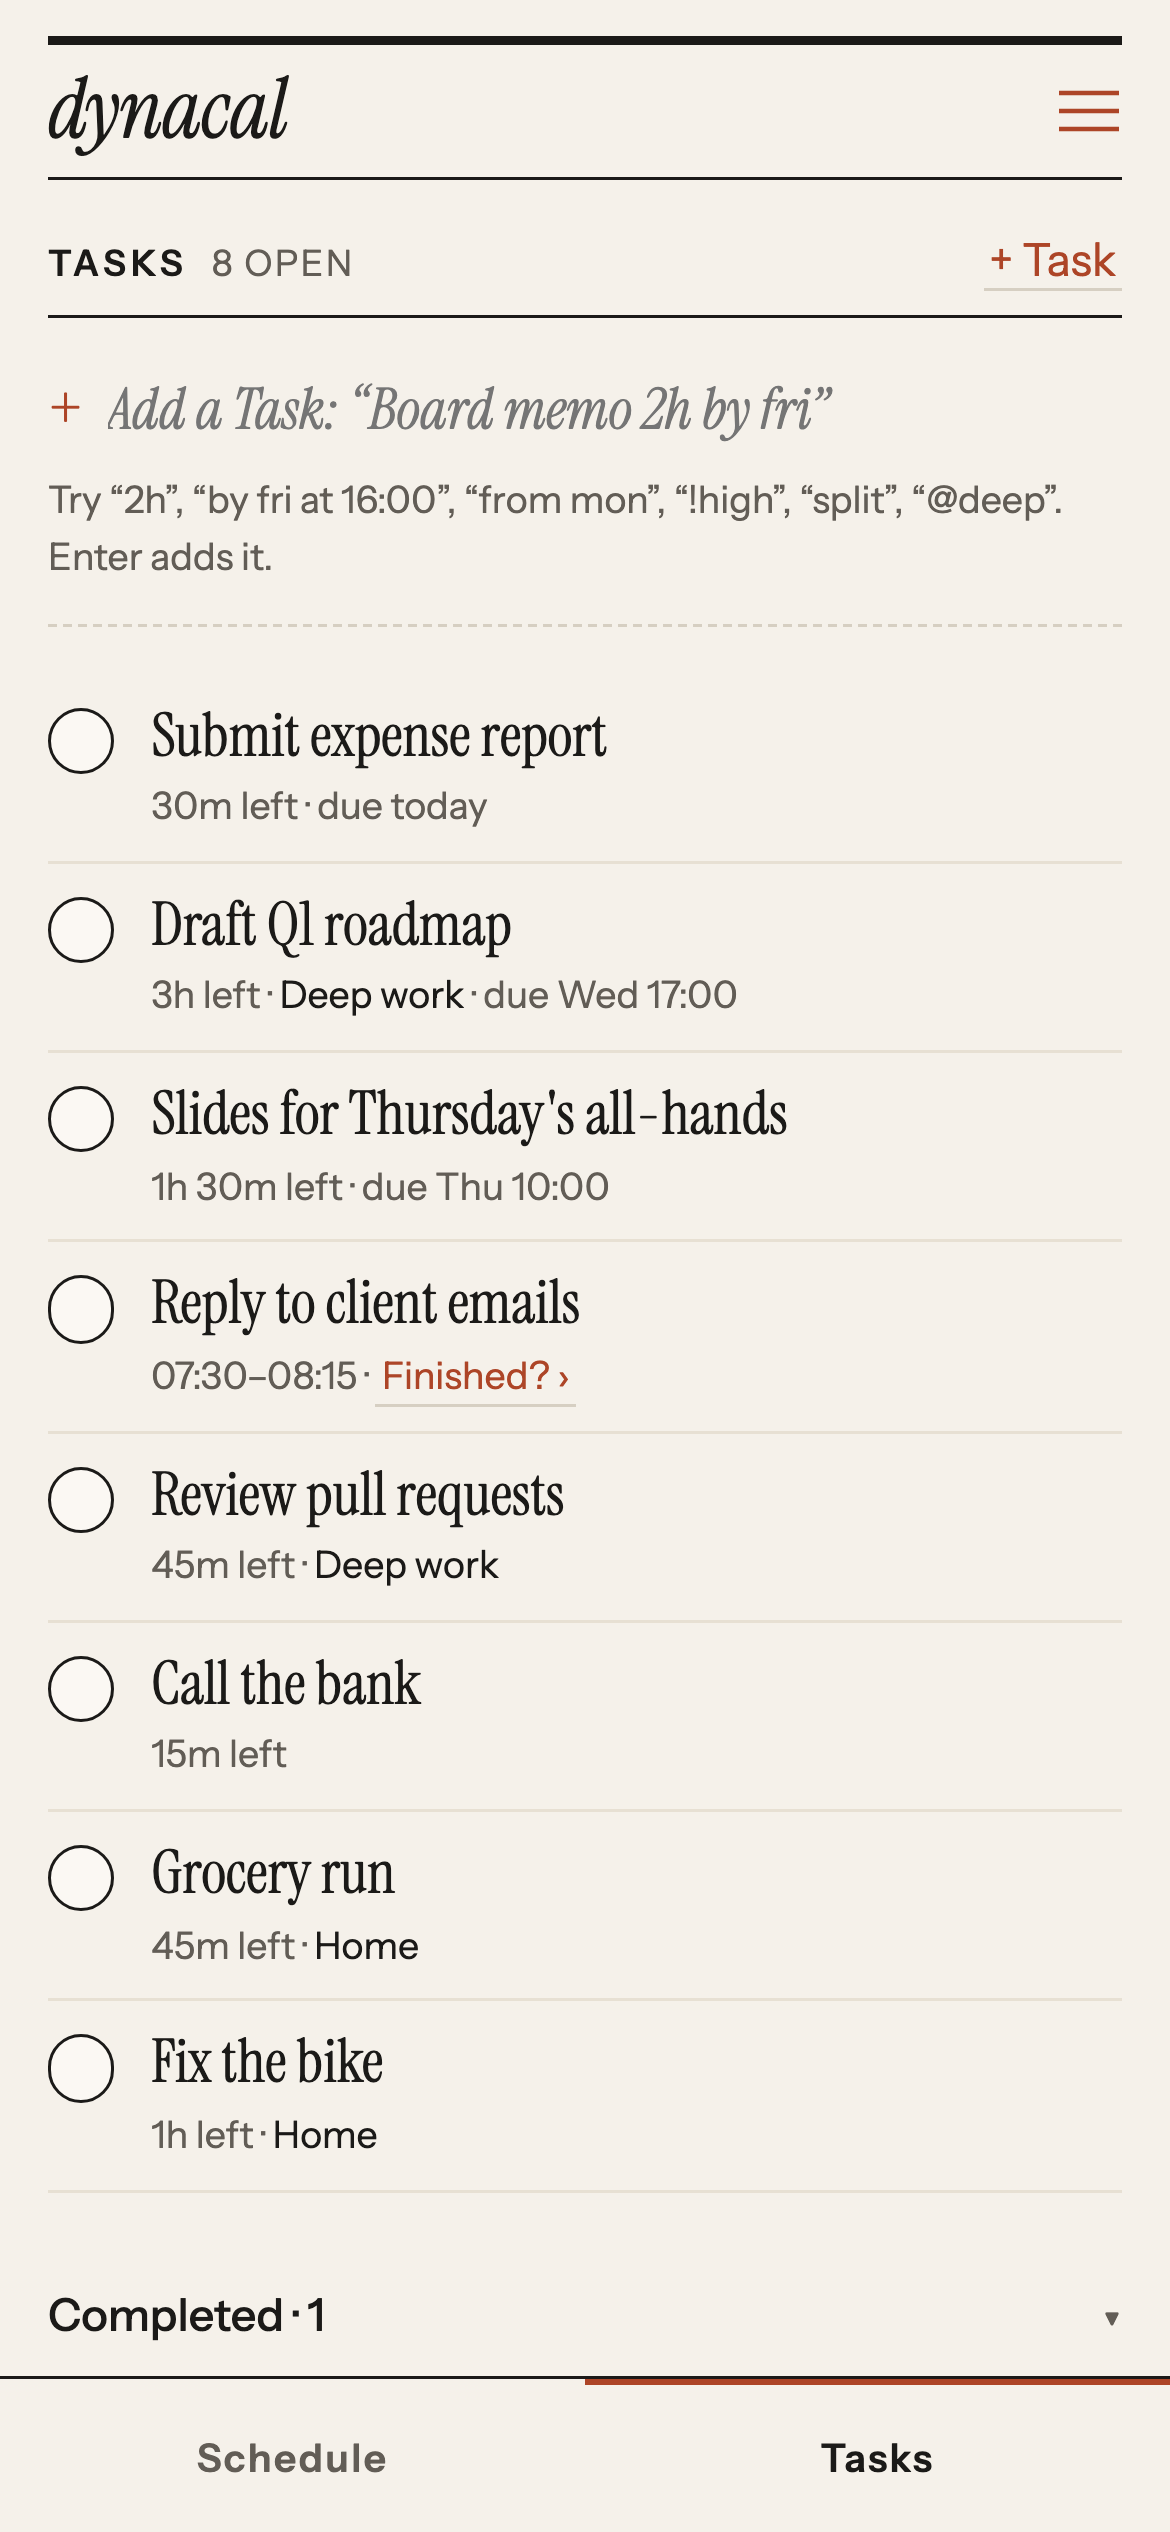
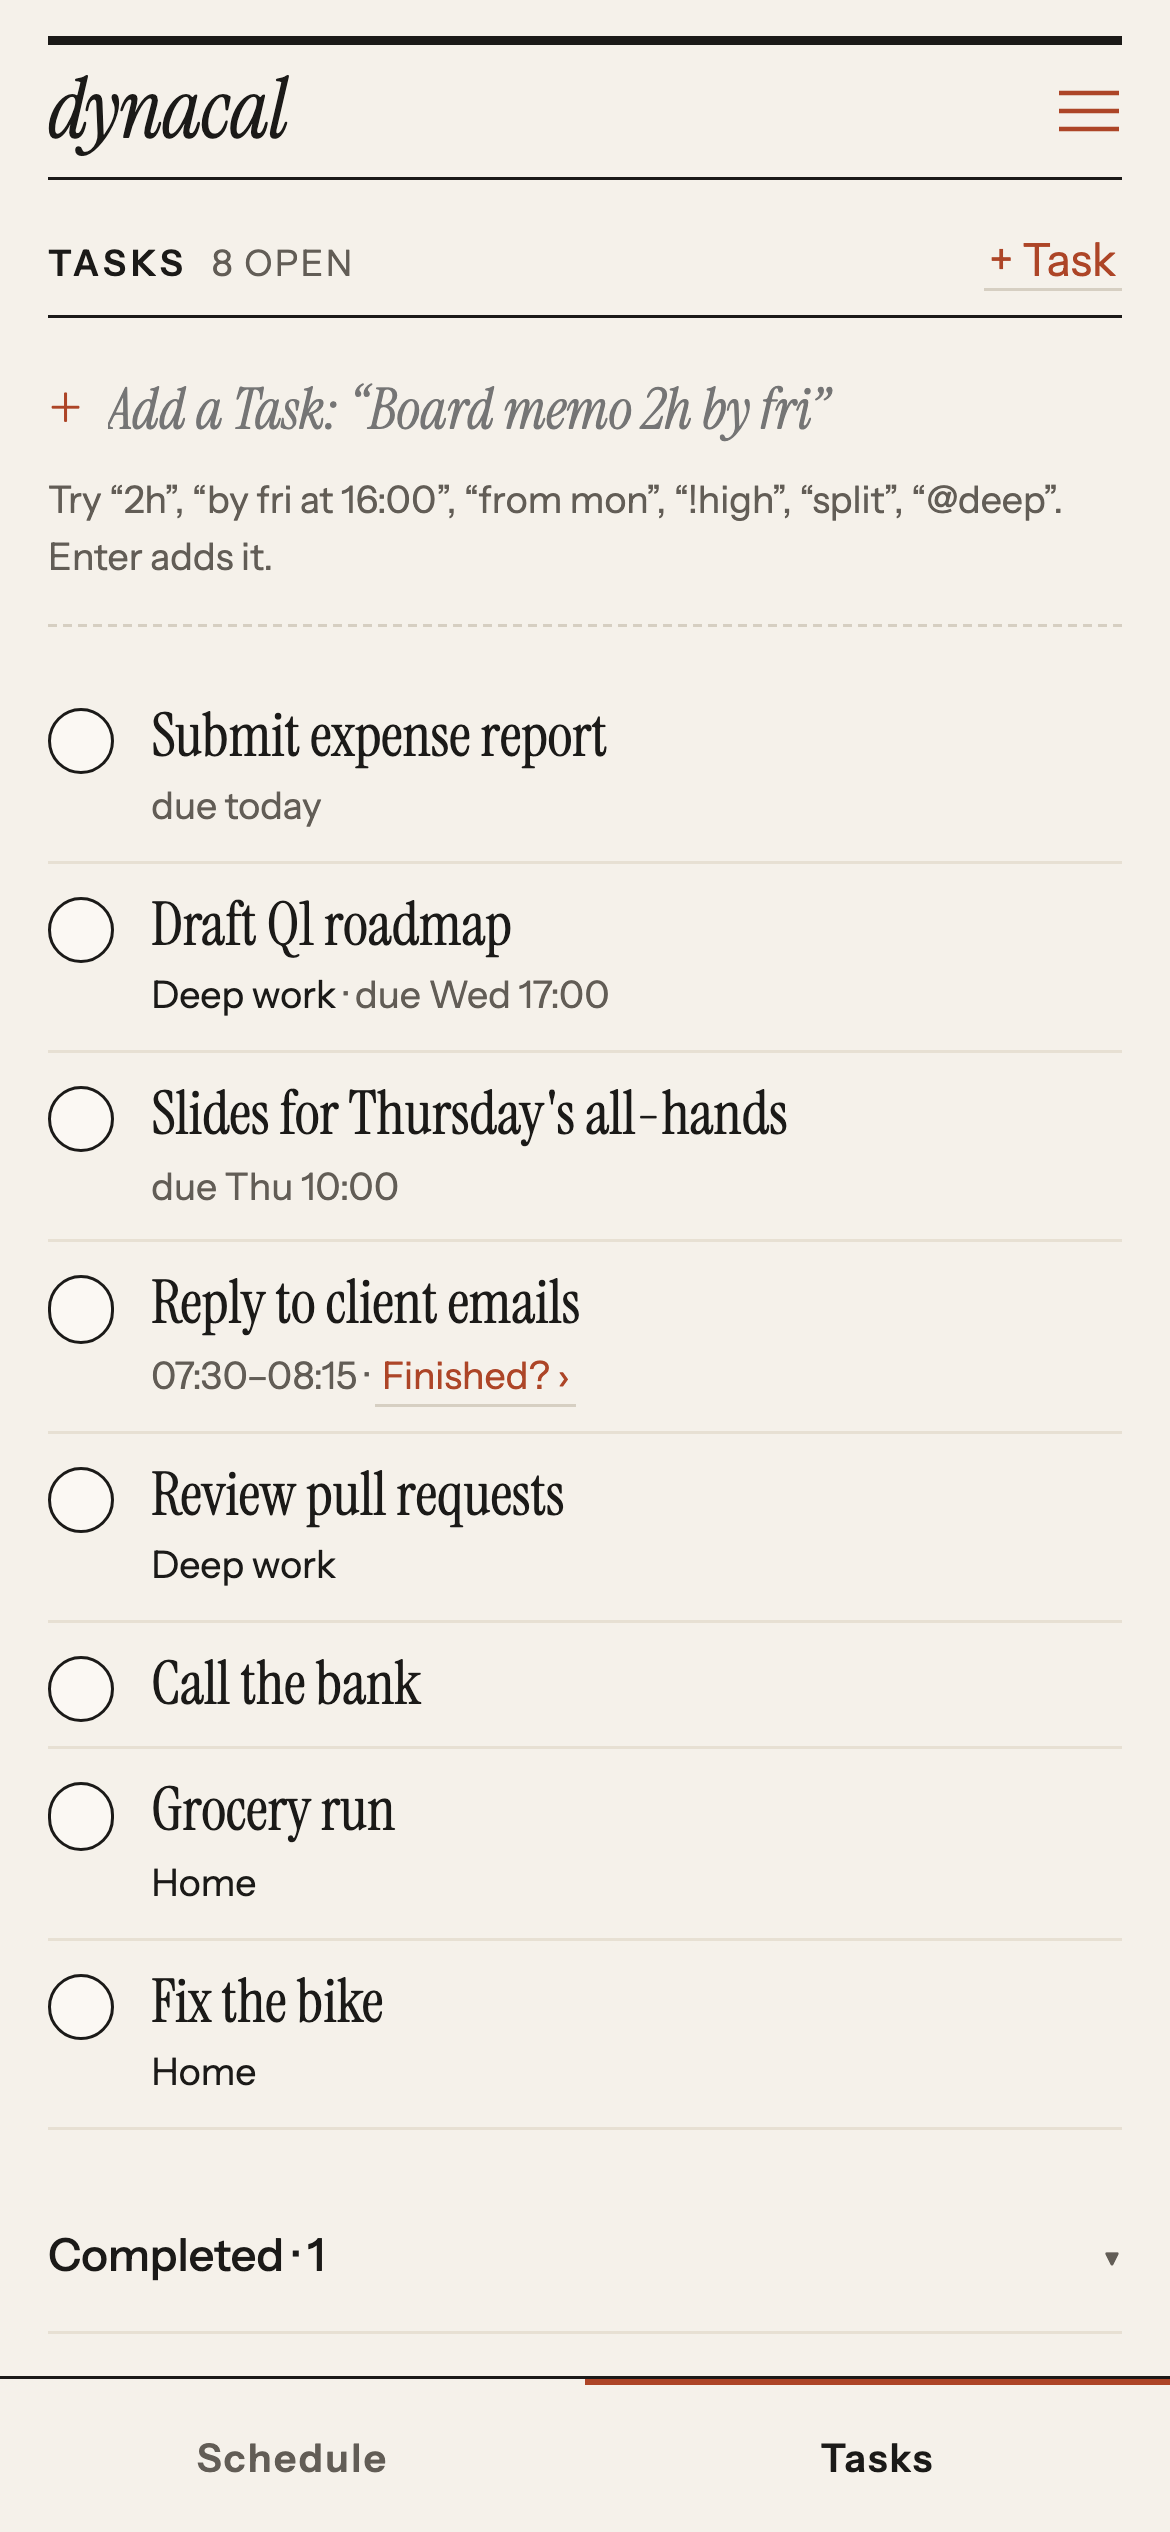
Stop showing each Task's time on the Task List
"30m left" only ever differed from the estimate after a More time answer, read as
if dynacal tracked time worked, and repeated what the Schedule already shows. A
row now says only its Context, deadline and flag, and a Task with none of them
is just its title. The estimate is still in the Task's editor.

Screenshots retaken.

diff --git a/src/app/tasks/task-panel.tsx b/src/app/tasks/task-panel.tsx
@@ -4,7 +4,7 @@ import { useCallback, useState, ViewTransition } from "react";
 import type { TaskListItem } from "@/core/commands";
 import { contextTag } from "@/core/contexts";
 import { heldOrder } from "@/core/motion";
-import { formatDuration, type TaskInput } from "@/core/tasks";
+import type { TaskInput } from "@/core/tasks";
 import { toZoned } from "@/core/time-zone";
 import { Squiggle } from "../states/squiggle";
 import statesStyles from "../states/states.module.css";
@@ -16,7 +16,7 @@ import { CheckInSheet } from "./check-in-sheet";
 import { CompleteTaskButton } from "./complete-task-button";
 import { useCompletion } from "./completion";
 import { daysAgoWords, deadlineWords, spanWords, zoneOrBrowser } from "./day-words";
-import { contextShortWords, FlagText } from "./flags";
+import { contextShortWords, FLAG_LABELS, isAlarm } from "./flags";
 import { inputOf, useTaskEditor } from "./task-editor-context";
 import { useTaskList, type ActOnTasks } from "./task-list";
 import { TASK_LINE_ID, TaskLineAdd } from "./task-line-add";
@@ -89,13 +89,12 @@ function RowTitle({ title, sweep }: { title: string; sweep: boolean }) {
 }
 
 /** "Saved" by a row, gone for good once it has faded. */
-function SavedNote() {
+function SavedNote({ lead }: { lead: boolean }) {
   const { played, ref } = usePlayedOnce();
   if (played) return null;
   return (
     <span ref={ref} className={styles.saved} role="status">
-      {" "}
-      · Saved
+      {lead ? " · " : ""}Saved
     </span>
   );
 }
@@ -181,23 +180,27 @@ export function TaskPanel() {
     const tag = contextTag(contexts, task.contextId);
     // A Context's time running short says so in one phrase, which keeps the row short at phone width.
     const contextShort = contextShortWords(flag, tag, task.deadline, today);
+    // The row's details, each said once and joined with " · ". A Task's length isn't among them: the Schedule
+    // already shows how long each time is, and the Task's editor holds the estimate.
+    const parts: React.ReactNode[] = contextShort
+      ? [<em key="short" className={styles.flag}>{contextShort}</em>]
+      : [
+          tag && <span key="tag" className="context-tag">{tag}</span>,
+          task.deadline && deadlineWords(task.deadline, today),
+          flag && (isAlarm(flag) ? <em key="flag" className={styles.flag}>{FLAG_LABELS[flag]}</em> : FLAG_LABELS[flag]),
+        ].filter(Boolean);
+    const joined = (lead: boolean) =>
+      parts.map((part, i) => (
+        <span key={i}>
+          {lead || i > 0 ? " · " : ""}
+          {part}
+        </span>
+      ));
+    const saveNote = (lead: boolean) => justSaved && <SavedNote key={saved.n} lead={lead} />;
     const details = (
       <>
-        {contextShort ? (
-          <em className={styles.flag}> · {contextShort}</em>
-        ) : (
-          <>
-            {tag && (
-              <>
-                {" · "}
-                <span className="context-tag">{tag}</span>
-              </>
-            )}
-            {task.deadline && ` · ${deadlineWords(task.deadline, today)}`}
-            {flag && <FlagText flag={flag} className={styles.flag} />}
-          </>
-        )}
-        {justSaved && <SavedNote key={saved.n} />}
+        {joined(true)}
+        {saveNote(true)}
       </>
     );
     // A new key replays the sweep: once on arrival, and again on each save.
@@ -244,10 +247,13 @@ export function TaskPanel() {
             openButton(
               <>
                 {title}
-                <span className={styles.meta}>
-                  {task.completedAt ? "Complete" : `${formatDuration(task.remainingMinutes)} left`}
-                  {details}
-                </span>
+                {(task.completedAt || parts.length > 0 || justSaved) && (
+                  <span className={styles.meta}>
+                    {task.completedAt && "Complete"}
+                    {joined(Boolean(task.completedAt))}
+                    {saveNote(Boolean(task.completedAt) || parts.length > 0)}
+                  </span>
+                )}
               </>,
             )
           )}

diff --git a/src/app/tasks/task-panel.test.tsx b/src/app/tasks/task-panel.test.tsx
@@ -373,7 +373,7 @@ describe("a Later Task's row", () => {
   it("says Later quietly where flags show, never Unscheduled, and offers no splitting", () => {
     renderPanel([photos], { [photos.id]: "later" });
 
-    const later = taskList().getByText("· Later", { exact: false });
+    const later = taskList().getByText("Later");
     // Flags are emphasised as alarms; Later isn't one.
     expect(later.closest("em")).toBeNull();
     expect(screen.queryByText(/Unscheduled/)).toBeNull();
@@ -405,7 +405,7 @@ describe("a row's message when a Task won't fit before its deadline", () => {
   afterEach(() => vi.useRealTimers());
   const byFriday = { date: "2026-10-30", time: null };
   // Splittable, so the row has no "Allow splitting" button after its text.
-  const meta = (row: HTMLElement) => row.textContent?.replace(/^.*?(\d+h|\d+m)/, "$1");
+  const meta = (row: HTMLElement) => row.querySelector('[class*="meta"]')?.textContent;
 
   it("names the Task's Context, saying whether its time is short or there's none", () => {
     const essay = taskItem({ title: "Write essay", contextId: "deep", deadline: byFriday, splittable: true });
@@ -413,8 +413,8 @@ describe("a row's message when a Task won't fit before its deadline", () => {
     renderPanel([essay, draft], { [essay.id]: "at-risk", [draft.id]: "unscheduled" }, [workContext, deepWorkContext]);
 
     const [essayRow, draftRow] = taskList().getAllByRole("listitem");
-    expect(meta(essayRow)).toBe("1h left · Too little Deep work time before Fri");
-    expect(meta(draftRow)).toBe("1h left · No Deep work time before Fri");
+    expect(meta(essayRow)).toBe("Too little Deep work time before Fri");
+    expect(meta(draftRow)).toBe("No Deep work time before Fri");
     // Still an alarm.
     expect(within(essayRow).getByText("Too little Deep work time before Fri", { exact: false }).closest("em")).toBeTruthy();
   });
@@ -425,8 +425,8 @@ describe("a row's message when a Task won't fit before its deadline", () => {
     renderPanel([memo, talk], { [memo.id]: "at-risk", [talk.id]: "unscheduled" });
 
     const [memoRow, talkRow] = taskList().getAllByRole("listitem");
-    expect(meta(memoRow)).toBe("1h left · due Fri · At Risk");
-    expect(meta(talkRow)).toBe("1h left · due Fri · Unscheduled");
+    expect(meta(memoRow)).toBe("due Fri · At Risk");
+    expect(meta(talkRow)).toBe("due Fri · Unscheduled");
   });
 });
 
@@ -825,7 +825,7 @@ describe("a Task waiting for a Check-in", () => {
       });
     });
 
-    it("makes the amount picked the time left at once, and closes", async () => {
+    it("takes the answer at once, and closes", async () => {
       const answering = deferred<{ ok: true }>();
       vi.mocked(checkIn).mockReturnValue(answering.promise);
       renderPanel([single()]);
@@ -835,7 +835,6 @@ describe("a Task waiting for a Check-in", () => {
 
       expect(checkIn).toHaveBeenCalledWith("block-1", { answer: "more-time", minutes: 30 });
       await waitFor(() => expect(screen.queryByRole("complementary", { name: "Pack for vegas" })).toBeNull());
-      expect(taskList().getByText(/30m left/)).toBeTruthy();
       expect(screen.queryByRole("button", { name: "Finished? ›" })).toBeNull();
       answering.resolve({ ok: true });
       await waitFor(() => expect(checkIn).toHaveReturned());

diff --git a/browser-tests/offline.spec.ts b/browser-tests/offline.spec.ts
@@ -37,7 +37,7 @@ test("keeps the last week readable offline and falls back for an uncached page",
     await page.evaluate(() => navigator.serviceWorker.ready);
     await page.waitForFunction(() => navigator.serviceWorker.controller !== null);
     await page.reload();
-    await expect(page.getByRole("button", { name: "Prepare the report 1h left" })).toBeVisible();
+    await expect(page.getByRole("button", { name: "Prepare the report", exact: true })).toBeVisible();
     await page.waitForFunction(async () => Boolean(await caches.match("/")) && Boolean(await caches.match("/offline")));
 
     await page.context().setOffline(true);
@@ -46,13 +46,13 @@ test("keeps the last week readable offline and falls back for an uncached page",
     await expect(page.getByRole("button", { name: "Mark “Prepare the report” complete" })).toBeDisabled();
 
     await page.reload();
-    await expect(page.getByRole("button", { name: "Prepare the report 1h left" })).toBeVisible();
+    await expect(page.getByRole("button", { name: "Prepare the report", exact: true })).toBeVisible();
     await expect(page.getByRole("status").filter({ hasText: "Offline." })).toBeVisible();
     await expect(page.getByRole("textbox", { name: "Add a Task" })).toBeDisabled();
     await expect(page.getByRole("button", { name: "Mark “Prepare the report” complete" })).toBeDisabled();
 
     // A page loaded offline can still open a Task to read it.
-    await page.getByRole("button", { name: "Prepare the report 1h left" }).click();
+    await page.getByRole("button", { name: "Prepare the report", exact: true }).click();
     const editor = page.getByRole("form", { name: "Edit Task" });
     await expect(editor.getByRole("button", { name: "Save" })).toBeDisabled();
     await expect(editor.getByText("Offline: this needs a connection.")).toBeVisible();

diff --git a/browser-tests/task-editor-layout.spec.ts b/browser-tests/task-editor-layout.spec.ts
@@ -8,7 +8,7 @@ async function addAndOpen(page: Page) {
   const line = page.getByRole("textbox", { name: "Add a Task" });
   await line.fill("Pack for Vegas 1h");
   await line.press("Enter");
-  await page.getByRole("button", { name: "Pack for Vegas 1h left" }).click();
+  await page.getByRole("button", { name: "Pack for Vegas", exact: true }).click();
   return page.getByRole("form", { name: "Edit Task" });
 }
 
@@ -152,7 +152,7 @@ test("keeps unsaved changes when a turn of the device crosses to the other layou
     await expect(page.getByRole("form", { name: "Edit Task" })).toHaveCount(0);
 
     // Once discarded, nothing of the draft comes back.
-    await page.getByRole("button", { name: "Pack for Vegas 1h left" }).click();
+    await page.getByRole("button", { name: "Pack for Vegas", exact: true }).click();
     await expect(editor.getByRole("textbox", { name: "Title" })).toHaveValue("Pack for Vegas");
   });
 });

diff --git a/browser-tests/settings.spec.ts b/browser-tests/settings.spec.ts
@@ -59,7 +59,7 @@ test("adds a Context on a phone, and places a Task moved into it only in its win
     await editor.getByRole("button", { name: "Save", exact: true }).click();
 
     const row = page.getByRole("listitem").filter({ hasText: "Write essay" });
-    await expect(row).toContainText("1h left · Deep work");
+    await expect(row).toContainText("Deep work");
     expect(await page.evaluate(() => document.documentElement.scrollWidth)).toBeLessThanOrEqual(390);
     await page.getByRole("tab", { name: "Schedule" }).click();
     await expect(page.getByRole("button", { name: /^Write essay, 14:00, 1h/ })).toBeVisible();

diff --git a/browser-tests/task.spec.ts b/browser-tests/task.spec.ts
@@ -98,7 +98,7 @@ test("puts a Task in a Context typed as “@deep” on a phone, placed in its wi
     await page.getByRole("textbox", { name: "Add a Task" }).press("Enter");
 
     const row = page.getByRole("listitem").filter({ hasText: "Write essay" });
-    await expect(row).toContainText("1h left · Deep work");
+    await expect(row).toContainText("Deep work");
     await expect(row).not.toContainText("@deep");
     expect(await page.evaluate(() => document.documentElement.scrollWidth)).toBeLessThanOrEqual(390);
     await page.getByRole("tab", { name: "Schedule" }).click();
